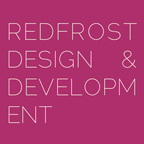
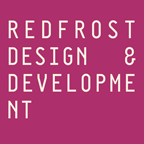
iPhone font
disable auto resize

diff --git a/assets/css/main.css b/assets/css/main.css
@@ -685,3 +685,14 @@ footer {
   -moz-border-radius: 	0px;
   border-radius: 	0px;
 }
+
+
+
+
+/* Fix
+********************************/
+/* IPHONE FONT AUTO RESIZE DISABLE */
+html {
+    -webkit-text-size-adjust: none; 
+}
+
